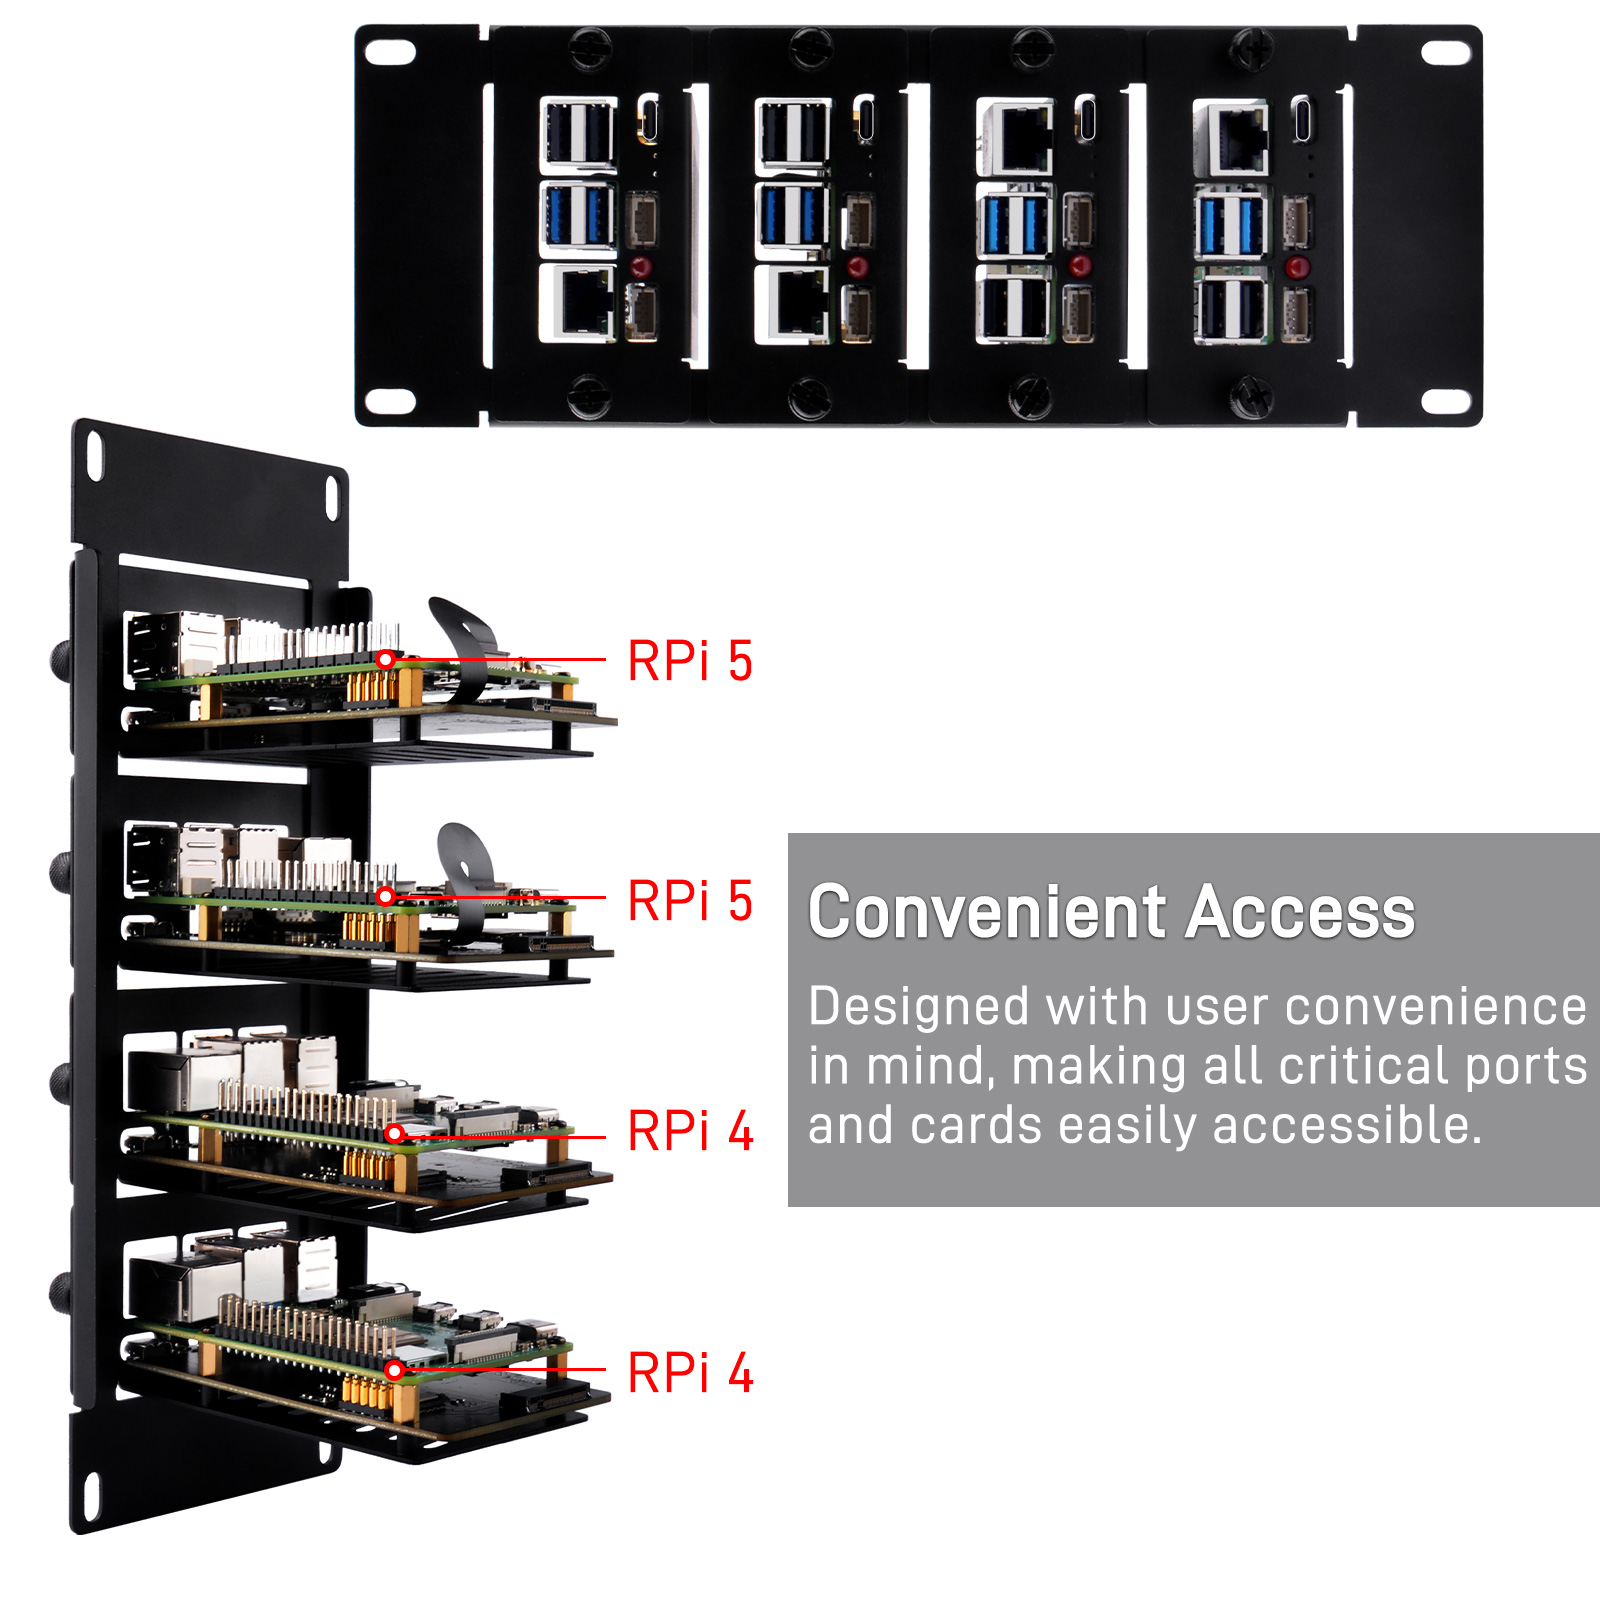
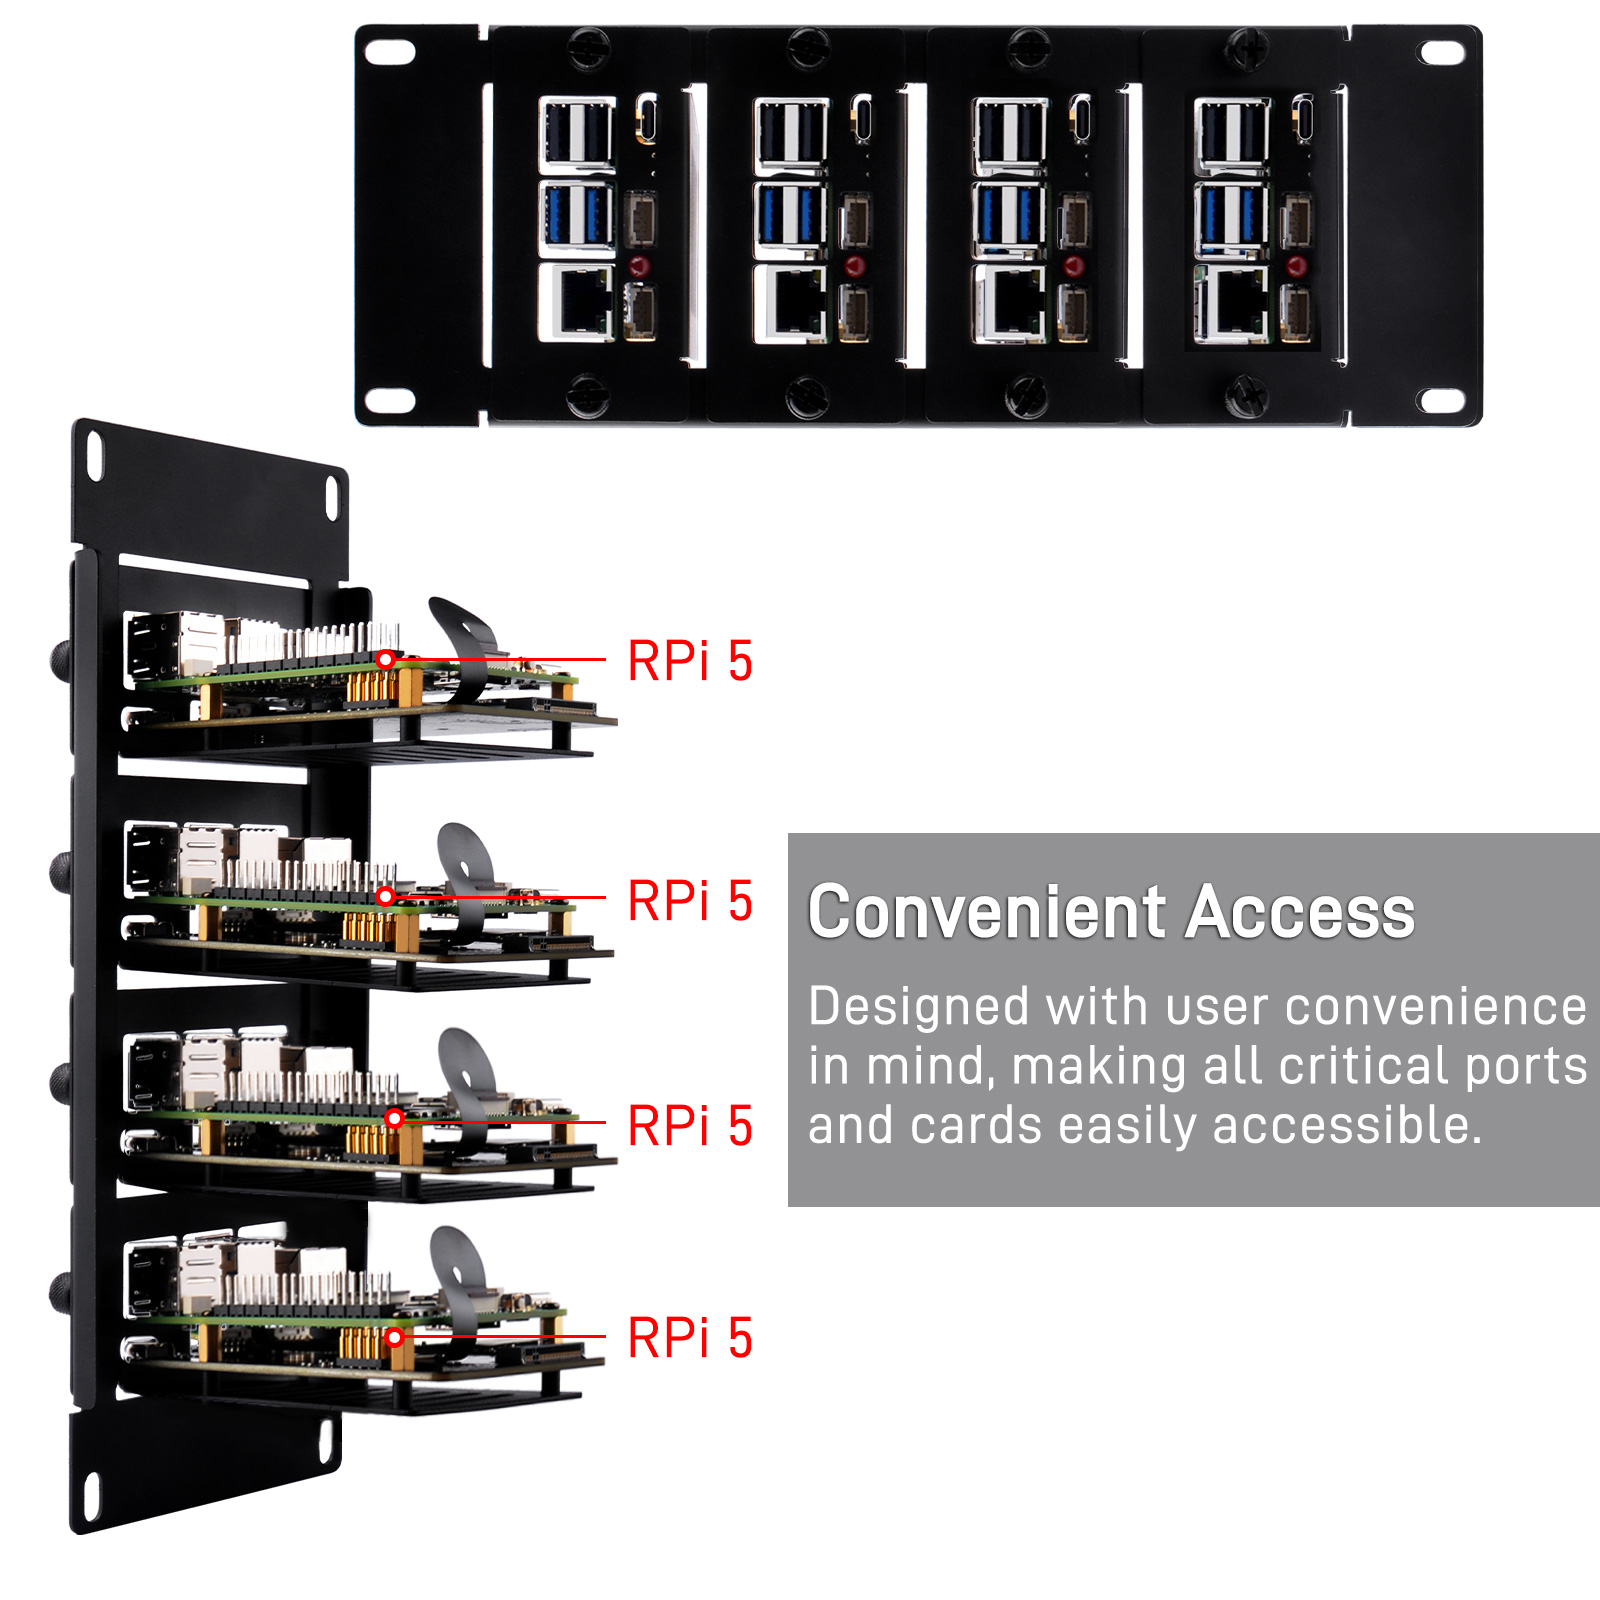
update DP-0046 and DP-0039

diff --git a/wiki/docs/rackmate_accessories_4.md b/wiki/docs/rackmate_accessories_4.md
@@ -1,8 +1,8 @@
 
-# DeskPi Rackmate 10-inch 1U Rack Mount with PCIE NVME Board for Raspberry Pi 5/4B
+# DeskPi Rackmate 10-inch 1U Rack Mount with PCIE NVME Board for Raspberry Pi 5
 
 * SKU: DP-0039
-* Name: DeskPi Rackmate 10-inch 1U Rack Mount with PCIE NVME Board for Raspberry Pi 5/4B
+* Name: DeskPi Rackmate 10-inch 1U Rack Mount with PCIE NVME Board for Raspberry Pi 5
 
 ![DP-0039DC09](./imgs/DP-0039/DP-0039-1.jpg)
 
@@ -102,6 +102,9 @@ The 1U RackMount is specifically designed for the Raspberry Pi 4B and Raspberry 
 
 ![DP-0039pl](./imgs/DP-0039/DP-0039-PL.jpg)
 
+![DP-0039PL](./imgs/DP-0039/DP-0039-11.jpg)
+
+
 ## How to enable PCIe function on Raspberry Pi 5?
 
 To enable PCIe functionality on the Raspberry Pi 5, follow these steps:
@@ -200,9 +203,9 @@ Be careful not to short any pins on the Raspberry Pi.
 ![shoppingChart](./imgs/picomate/shoppingchart.jpg){: style="height:50px;width:50px"}
 ![thumbsup](./imgs/rackmateT1/update/thumbsup.png){: style="height:50px;width:50px"}
 
-* Rackmate 10-inch 2U Rack Mount with PCIE NVME Board for Raspberry Pi 5/4B: [DP-0046](https://deskpi.com/)
+* Rackmate 10-inch 2U Rack Mount with PCIE NVME Board for Raspberry Pi 5: [DP-0046](https://deskpi.com/)
 
-* Rackmate 10-inch 1U Rack Mount with PCIE NVME Board for Raspberry Pi 5/4B: [DP-0039](https://deskpi.com/)
+* Rackmate 10-inch 1U Rack Mount with PCIE NVME Board for Raspberry Pi 5: [DP-0039](https://deskpi.com/)
 
 * Rack shelf [DP-0031](https://deskpi.com/collections/deskpi-rack-mate/products/deskpi)
 

diff --git a/wiki/docs/rackmate_accessories_3.md b/wiki/docs/rackmate_accessories_3.md
@@ -1,7 +1,7 @@
-# DeskPi Rackmate 2U Rack Mount with PCIE NVME Board for Raspberry Pi 5/4B
+# DeskPi Rackmate 2U Rack Mount with PCIE NVME Board for Raspberry Pi 5
 
 * SKU: DP-0046
-* Name: DeskPi Rackmate 2U Rack Mount with PCIE NVME Board for Raspberry Pi 5/4B
+* Name: DeskPi Rackmate 2U Rack Mount with PCIE NVME Board for Raspberry Pi 5
 
 ![DP-0046DC09](./imgs/DP-0046/DP-0046-main.jpg)
 
@@ -94,6 +94,9 @@ The 2U RackMount is specifically designed for the Raspberry Pi 4B and Raspberry 
 * Please note the key step in the installation:
 
 ![DP-004610](./imgs/DP-0046/DP-0046-09.jpg)
+
+![DP-004611](./imgs/DP-0046/DR-0046-ZT2.jpg)
+
 
 ## Package Includes 
 
@@ -197,7 +200,7 @@ Be careful not to short any pins on the Raspberry Pi.
 ![shoppingChart](./imgs/picomate/shoppingchart.jpg){: style="height:50px;width:50px"}
 ![thumbsup](./imgs/rackmateT1/update/thumbsup.png){: style="height:50px;width:50px"}
 
-* Rackmate 2U Rack Mount with PCIE NVME Board for Raspberry Pi 5/4B: [DP-0046](https://deskpi.com/)
+* Rackmate 2U Rack Mount with PCIE NVME Board for Raspberry Pi 5: [DP-0046](https://deskpi.com/)
 
 * Rack shelf [DP-0031](https://deskpi.com/collections/deskpi-rack-mate/products/deskpi)
 

diff --git a/wiki/docs/rackmate_accessories_6.md b/wiki/docs/rackmate_accessories_6.md
@@ -45,9 +45,9 @@ The DeskPi Rackmate 10-inch 0.5U Heavy Duty Rack Shelf is designed specifically 
 ![shoppingChart](./imgs/picomate/shoppingchart.jpg){: style="height:50px;width:50px"}
 ![thumbsup](./imgs/rackmateT1/update/thumbsup.png){: style="height:50px;width:50px"}
 
-* Rackmate 10-inch 2U Rack Mount with PCIE NVME Board for Raspberry Pi 5/4B: [DP-0046](https://deskpi.com/)
+* Rackmate 10-inch 2U Rack Mount with PCIE NVME Board for Raspberry Pi 5: [DP-0046](https://deskpi.com/)
 
-* Rackmate 10-inch 1U Rack Mount with PCIE NVME Board for Raspberry Pi 5/4B: [DP-0039](https://deskpi.com/)
+* Rackmate 10-inch 1U Rack Mount with PCIE NVME Board for Raspberry Pi 5: [DP-0039](https://deskpi.com/)
 
 * Rack shelf [DP-0031](https://deskpi.com/collections/deskpi-rack-mate/products/deskpi)
 

diff --git a/wiki/docs/rackmate_accessories_2.md b/wiki/docs/rackmate_accessories_2.md
@@ -61,7 +61,7 @@ The 10-inch Server Rack 0.5U Rack Cable Management Panel with 3 D-Rings is a cab
 ![shoppingChart](./imgs/picomate/shoppingchart.jpg){: style="height:50px;width:50px"}
 ![thumbsup](./imgs/rackmateT1/update/thumbsup.png){: style="height:50px;width:50px"}
 
-* Rackmate 2U Rack Mount with PCIE NVME Board for Raspberry Pi 5/4B: [DP-0046](https://deskpi.com/)
+* Rackmate 2U Rack Mount with PCIE NVME Board for Raspberry Pi 5: [DP-0046](https://deskpi.com/)
 * Rack shelf [DP-0031](https://deskpi.com/collections/deskpi-rack-mate/products/deskpi)
 * Blank Pannel [DP-0032](https://deskpi.com/collections/deskpi-rack-mate/products/deskpi-accessories-blank-pannel)
 * SBC shelf [DP-0033](https://deskpi.com/collections/deskpi-rack-mate/products/deskpi-accessories-sbc-shell)

diff --git a/wiki/docs/rackmate_accessories_5.md b/wiki/docs/rackmate_accessories_5.md
@@ -56,9 +56,9 @@ series, it will keep your T0/T1/T2's cable tidy up.
 ![shoppingChart](./imgs/picomate/shoppingchart.jpg){: style="height:50px;width:50px"}
 ![thumbsup](./imgs/rackmateT1/update/thumbsup.png){: style="height:50px;width:50px"}
 
-* Rackmate 10-inch 2U Rack Mount with PCIE NVME Board for Raspberry Pi 5/4B: [DP-0046](https://deskpi.com/)
+* Rackmate 10-inch 2U Rack Mount with PCIE NVME Board for Raspberry Pi 5: [DP-0046](https://deskpi.com/)
 
-* Rackmate 10-inch 1U Rack Mount with PCIE NVME Board for Raspberry Pi 5/4B: [DP-0039](https://deskpi.com/)
+* Rackmate 10-inch 1U Rack Mount with PCIE NVME Board for Raspberry Pi 5: [DP-0039](https://deskpi.com/)
 
 * Rack shelf [DP-0031](https://deskpi.com/collections/deskpi-rack-mate/products/deskpi)
 

diff --git a/wiki/docs/rackmate.md b/wiki/docs/rackmate.md
@@ -65,9 +65,9 @@ This design allows direct observation of the cabinet's interior, and users can a
 
 <font color=red> NEW arrival!!!</font><br>
 
-* DeskPi Rackmate 2U Rack Mount with PCIE NVME Board for Raspberry Pi 5/4B: [DP-0046](./rackmate_accessories_3.md)
+* DeskPi Rackmate 2U Rack Mount with PCIE NVME Board for Raspberry Pi 5: [DP-0046](./rackmate_accessories_3.md)
 
-* DeskPi Rackmate 1U Rack Mount with PCIE NVME Board for Raspberry Pi 5/4B: [DP-0039](./rackmate_accessories_4.md)
+* DeskPi Rackmate 1U Rack Mount with PCIE NVME Board for Raspberry Pi 5: [DP-0039](./rackmate_accessories_4.md)
 
 * DC PDU Lite 7-CH 0.5U for DeskPi Rackmate T1: [DP-0042](./rackmate_accessories.md)
 
